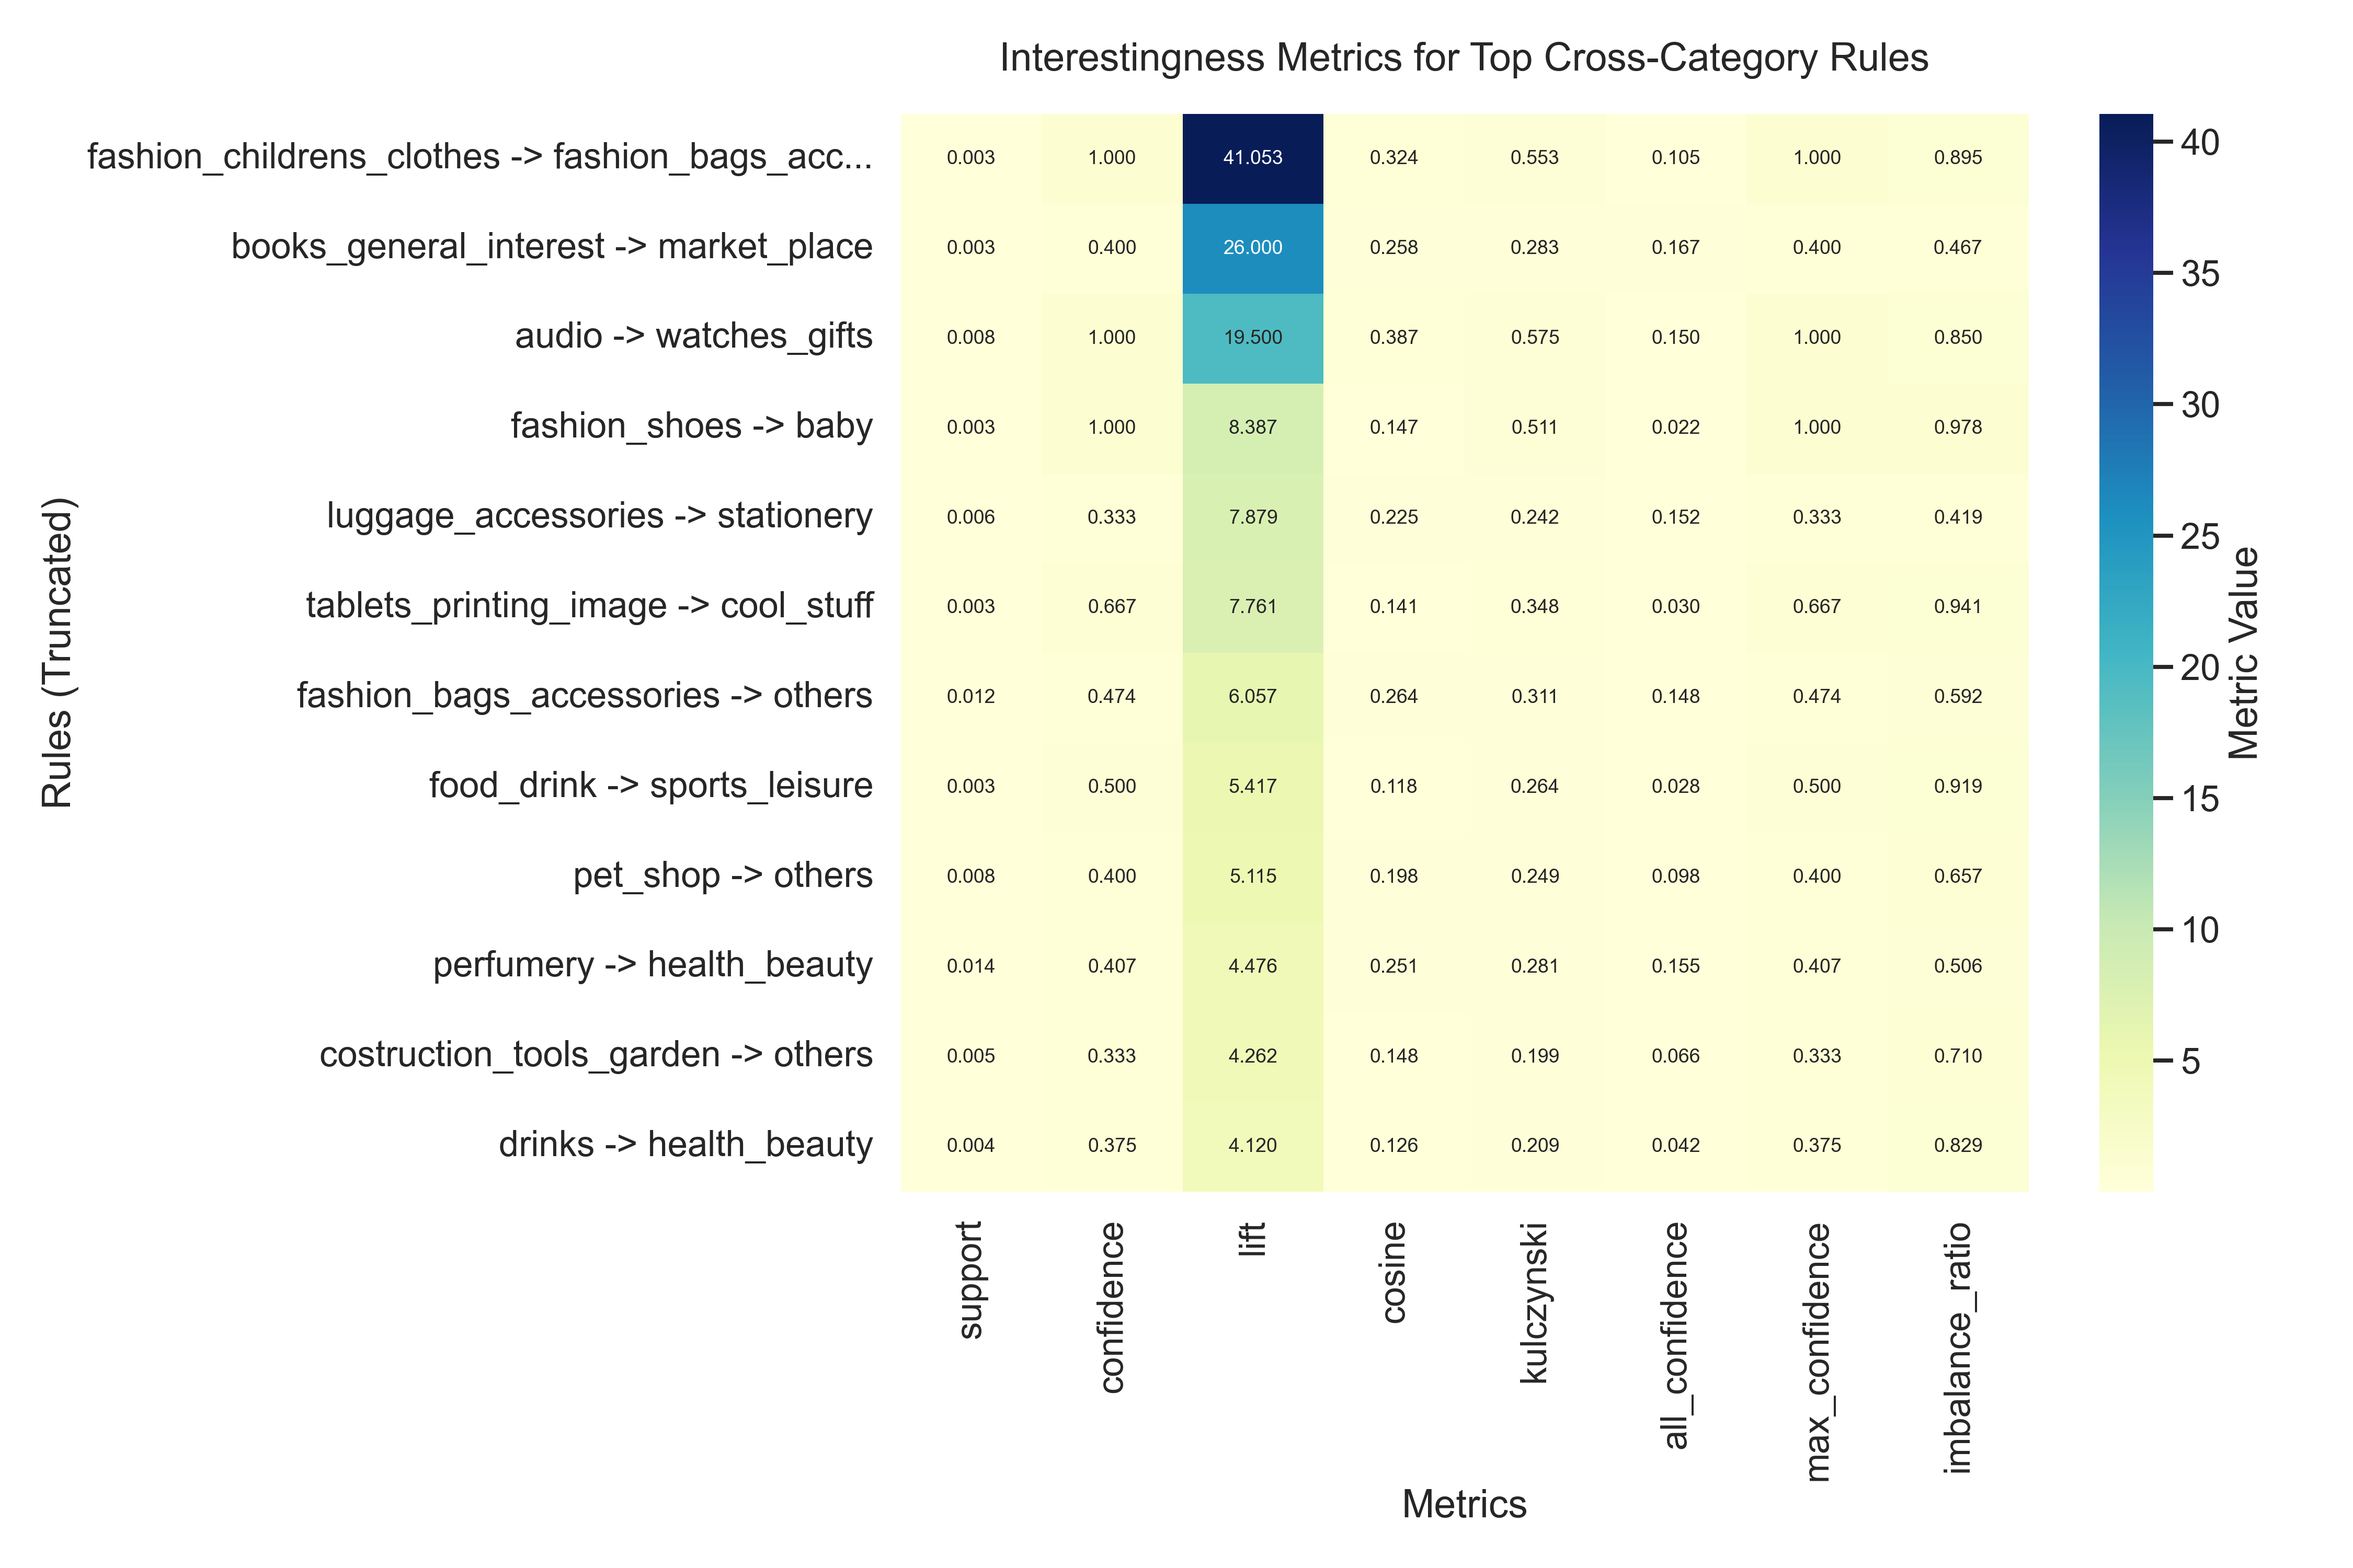
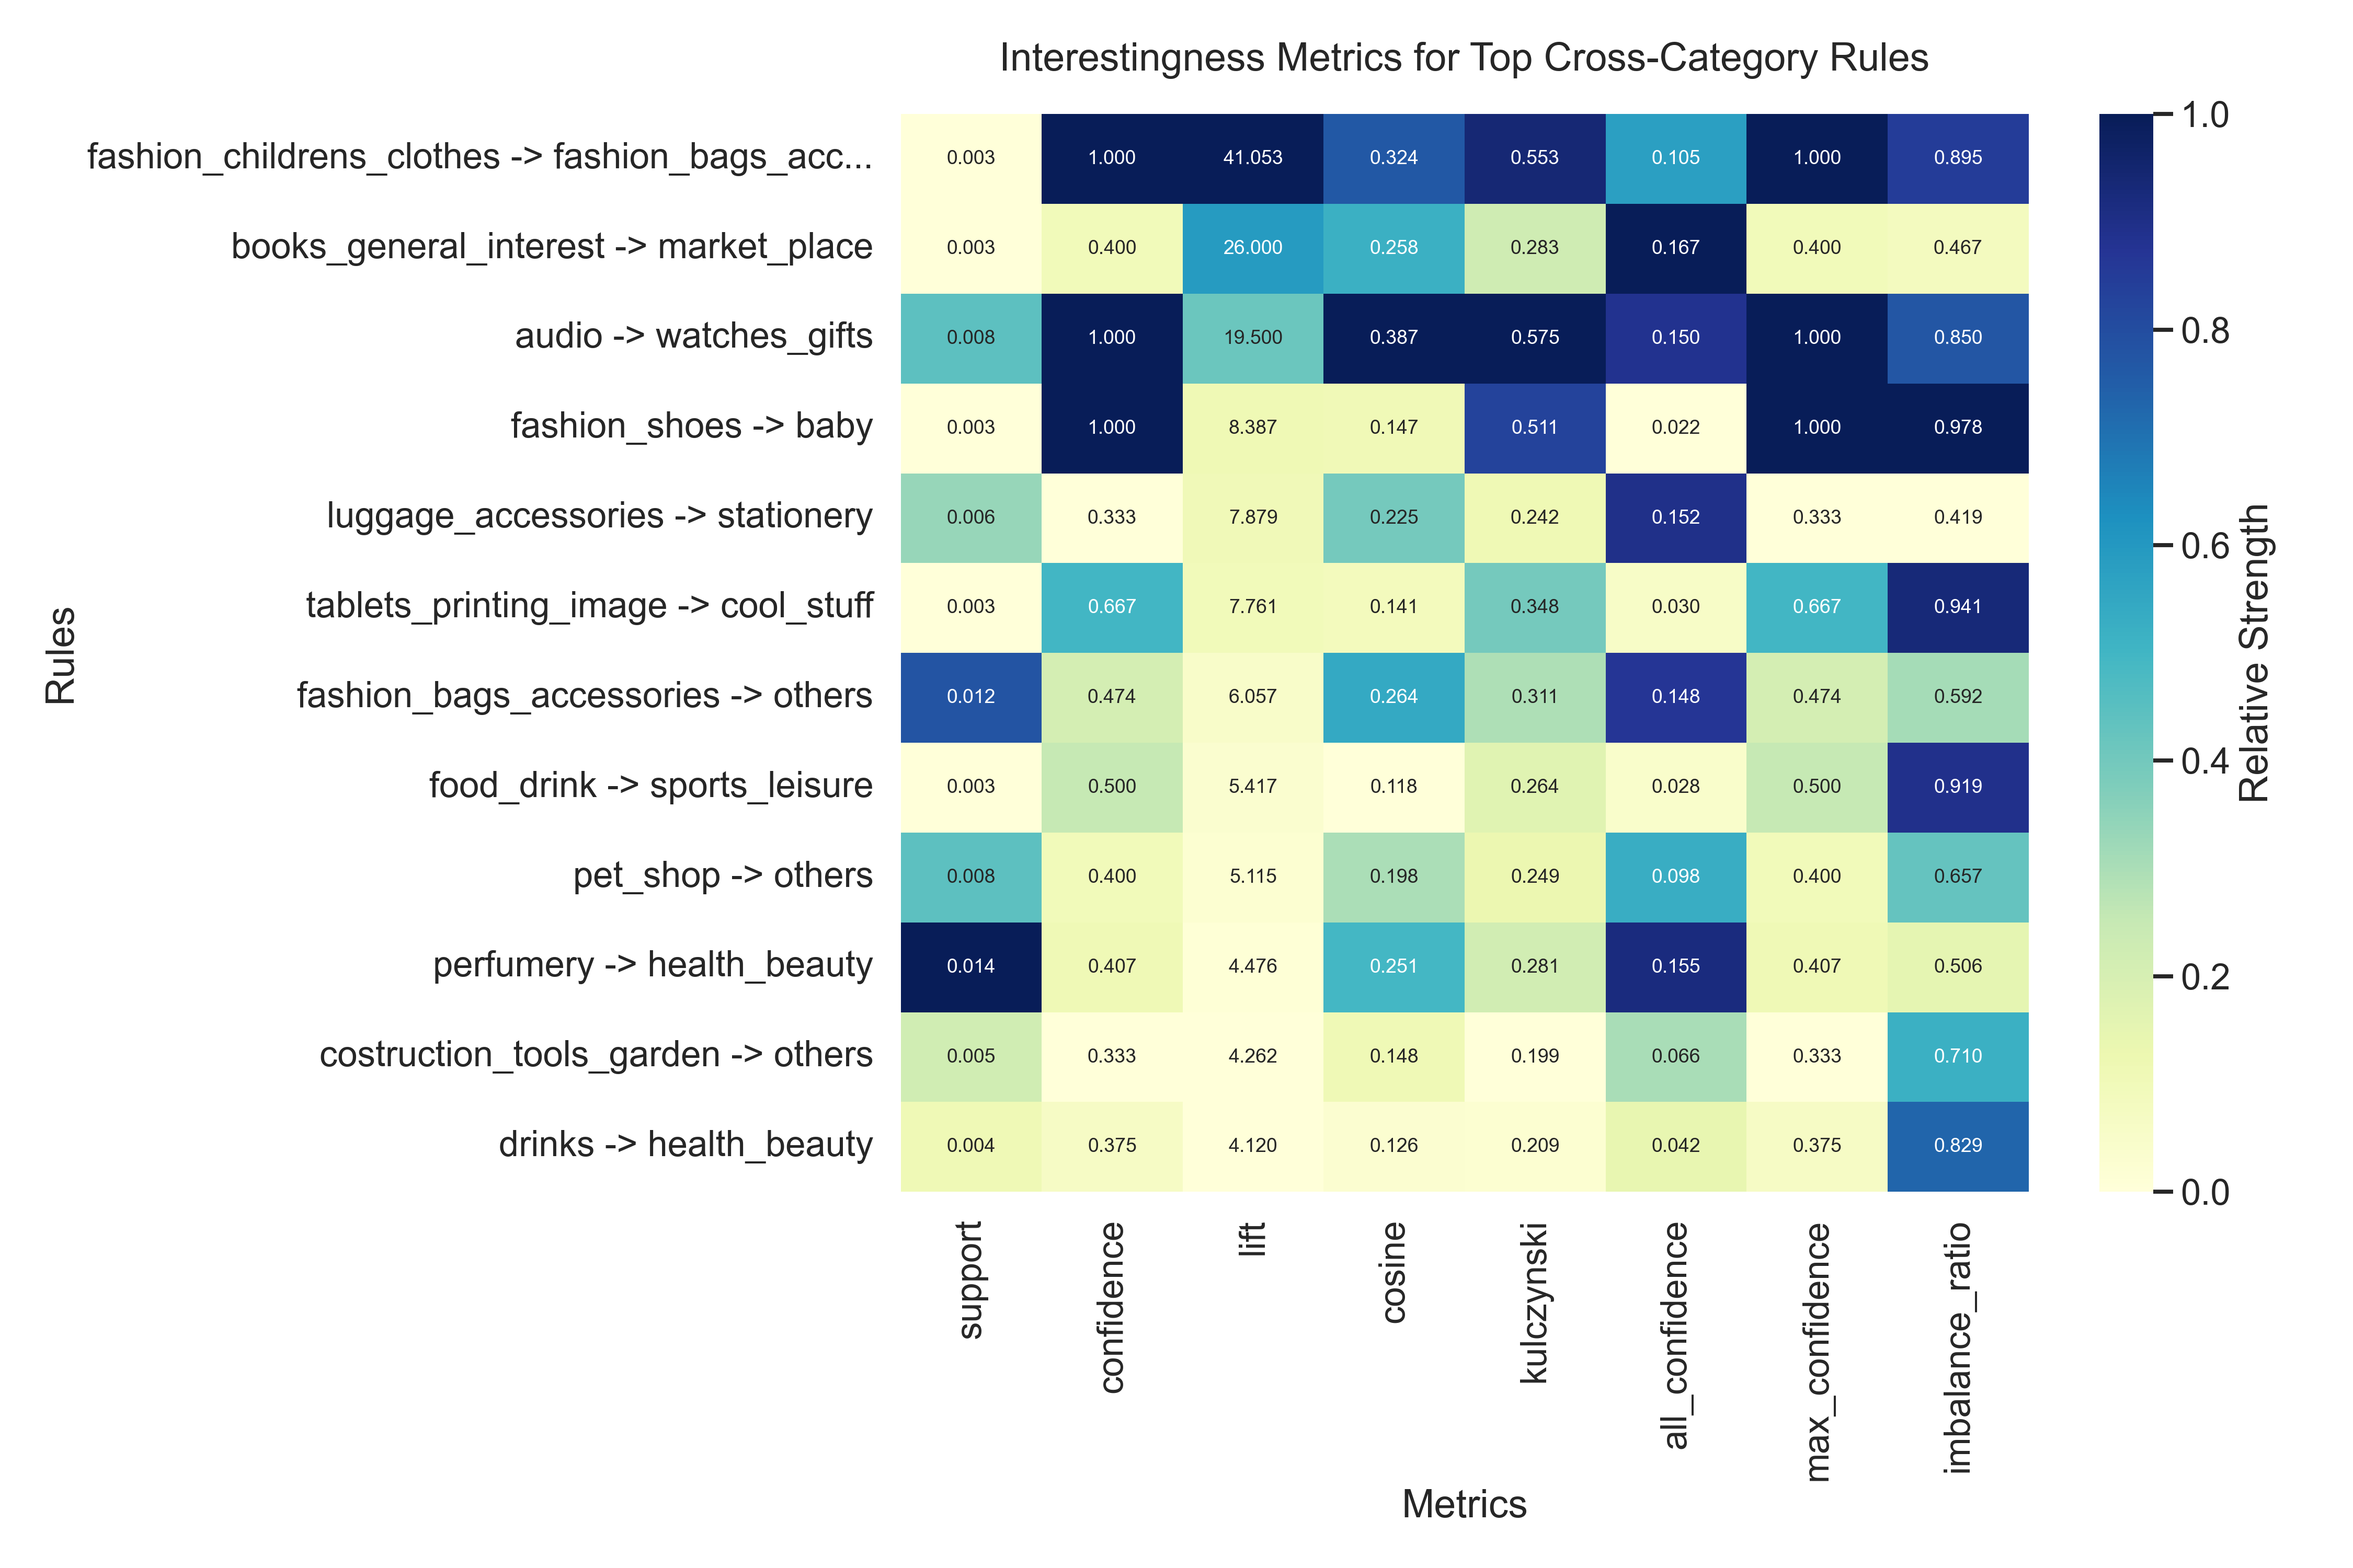
Update Phase 2 heatmaps: column-wise normalization for better metric visibility

diff --git a/phase2/new_implementation/scripts/arm_cross_category.py b/phase2/new_implementation/scripts/arm_cross_category.py
@@ -277,10 +277,16 @@ def save_visualizations(output_rules):
     metric_cols = ['support', 'confidence', 'lift', 'cosine', 'kulczynski', 'all_confidence', 'max_confidence', 'imbalance_ratio']
     heat_df = top_heat.set_index('rule')[metric_cols]
     plt.figure(figsize=(15, 10))
-    sns.heatmap(heat_df, cmap='YlGnBu', annot=True, fmt='.3f', annot_kws={"size": 9}, cbar_kws={'label': 'Metric Value'})
+    # Normalize each column for color mapping only
+    col_min = heat_df.min()
+    col_max = heat_df.max()
+    heat_df_norm = (heat_df - col_min) / (col_max - col_min)
+    heat_df_norm = heat_df_norm.fillna(0.5)  # Handle columns with same values
+    
+    sns.heatmap(heat_df_norm, cmap='YlGnBu', annot=heat_df, fmt='.3f', annot_kws={"size": 9}, cbar_kws={'label': 'Relative Strength'})
     plt.title('Interestingness Metrics for Top Cross-Category Rules', pad=20)
     plt.xlabel('Metrics')
-    plt.ylabel('Rules (Truncated)')
+    plt.ylabel('Rules')
     plt.tight_layout()
     plt.savefig(VIZ_DIR / '03_interestingness_heatmap.png', dpi=300)
     plt.close()

diff --git a/phase2/new_implementation/scripts/arm_intra_category.py b/phase2/new_implementation/scripts/arm_intra_category.py
@@ -292,10 +292,16 @@ def save_visualizations(output_rules):
     metric_cols = ['support', 'confidence', 'lift', 'cosine', 'kulczynski', 'all_confidence', 'max_confidence', 'imbalance_ratio']
     heat_df = top_heat.set_index('rule')[metric_cols]
     plt.figure(figsize=(15, 10))
-    sns.heatmap(heat_df, cmap='YlGnBu', annot=True, fmt='.3f', annot_kws={"size": 9}, cbar_kws={'label': 'Metric Value'})
+    # Normalize each column for color mapping only
+    col_min = heat_df.min()
+    col_max = heat_df.max()
+    heat_df_norm = (heat_df - col_min) / (col_max - col_min)
+    heat_df_norm = heat_df_norm.fillna(0.5)  # Handle columns with same values
+
+    sns.heatmap(heat_df_norm, cmap='YlGnBu', annot=heat_df, fmt='.3f', annot_kws={"size": 9}, cbar_kws={'label': 'Relative Strength'})
     plt.title('Interestingness Metrics for Intra-Category Rules', pad=20)
     plt.xlabel('Metrics')
-    plt.ylabel('Rules (Truncated)')
+    plt.ylabel('Rules')
     plt.tight_layout()
     plt.savefig(VIZ_DIR / '03_interestingness_heatmap.png', dpi=300)
     plt.close()
